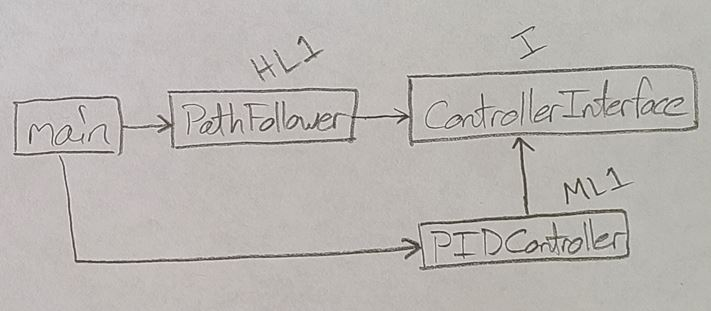
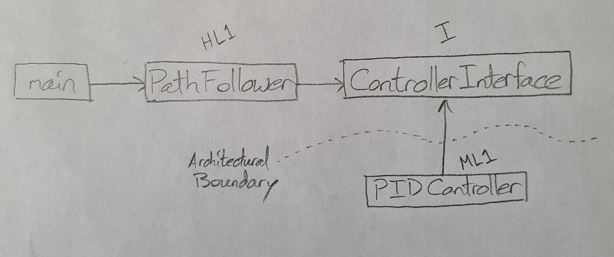
Update README and print statements

diff --git a/python/di_approach.py b/python/di_approach.py
@@ -8,9 +8,9 @@ class ControllerInterface(ABC):
 class PIDController(ControllerInterface):
     def update(self, direction: int):
         if direction > 0:
-            print("Increasing forward velocity")
+            print("Increasing forward velocity from PID")
         elif direction < 0:
-            print("Increasing backward velocity")
+            print("Increasing backward velocity from PID")
 
 class PathFollower:
     def __init__(self, controller: ControllerInterface):

diff --git a/include/pid_controller_naive.h b/include/pid_controller_naive.h
@@ -4,9 +4,9 @@ class pidController {
  public:
   void update(const int direction) {
     if (direction > 0){
-      std::cout << "Increasing forward velocity" << std::endl;
+      std::cout << "Increasing forward velocity from PID" << std::endl;
     } else if (direction < 0){
-      std::cout << "Increasing backward velocity" << std::endl;
+      std::cout << "Increasing backward velocity from PID" << std::endl;
     }
   }
 };

diff --git a/README.md b/README.md
@@ -16,28 +16,29 @@ A naive implementation of how we might design these classes is shown in the seco
 ### Naive Implemention (without dependency inversion):
 ![NaiveDiagram](assets/naive.JPG)
 
-The dependency-inverted implementation is shown in the third diagram. Notice that `PathFollower` does not inherit from `PIDController` directly.
+The dependency-inverted implementation is shown in the third diagram. Notice that `PathFollower` does not inherit from `PIDController`.
 
 ### Dependency Inverted Implementation
 ![DIPDiagram](assets/dip.JPG)
 
 A few consequences of this inversion are:
-- Any controller that adheres to the interface (an abstract class) defined by `ControllerInterface` can be swapped in with minimal effort.
-- `PathFollower` doesn't need to be recompiled if `PIDController` change.
+- Any controller that adheres to the interface (an abstract class) defined by `ControllerInterface` can be swapped in with minimal effort. For instance, `MPCController` can be linked to our executable (instead of `PIDController`) without any changes to the existing source code. We just compile `MPCController` as a shared library and modify the linking behavior at compile-time via `CMake` arguments.
+- `main` and `PathFollower` do not need to be recompiled if `PIDController` changes. `main` will just be linked with the recompiled `PIDController`. 
 - As promised above, "high-level policies (`PathFollower`) are independent of modules that contain low-level details (`PIDController`).
 - Both modules (`PathFollower` and `PIDController`) depend on abstractions, not implementation details.
 
 C++ and Python examples of both the Naive and DIP implementations were built using the references linked below.
 
 ## C++
-In C++, an abstract class with virtual methods defines an interface (e.g., `ControllerInterface`) which specifies a contract that all concrete implementations of that abstract class (e.g., `PIDController`) must meet.
+In C++, an abstract class with virtual methods defines an interface (`ControllerInterface`) which specifies a contract that all concrete implementations of that abstract class (`PIDController`) must meet. A concrete implementation (`ControllerImpl`) of the abstract class is declared and promised within `controller_interface.h`. The actual definition of the concrete implementation is provided via linked library at compile-time.
 
 To compile:
 ```
 cd dependency-inversion
 mkdir build && cd build
-cmake ..
-make -j4
+# Set cmake arguments as you desire
+cmake .. -DLINK_PID=OFF -DLINK_MPC=ON
+make
 ```
 To run the naive example:
 ```
@@ -50,7 +51,7 @@ cd dependency-inversion/build
 ./di_approach
 ```
 ## Python
-In Python, an abstract (`ABC`) class with `@abstractmethod` methods defines an interface (e.g., `ControllerInterface`) which specifies a contract that all concrete implementations of that abstract class (e.g., `PIDController`) must meet.
+In Python, an abstract (`ABC`) class with `@abstractmethod` methods defines an interface (`ControllerInterface`) which specifies a contract that all concrete implementations of that abstract class (`PIDController`) must meet.
 
 To run the naive example:
 ```
